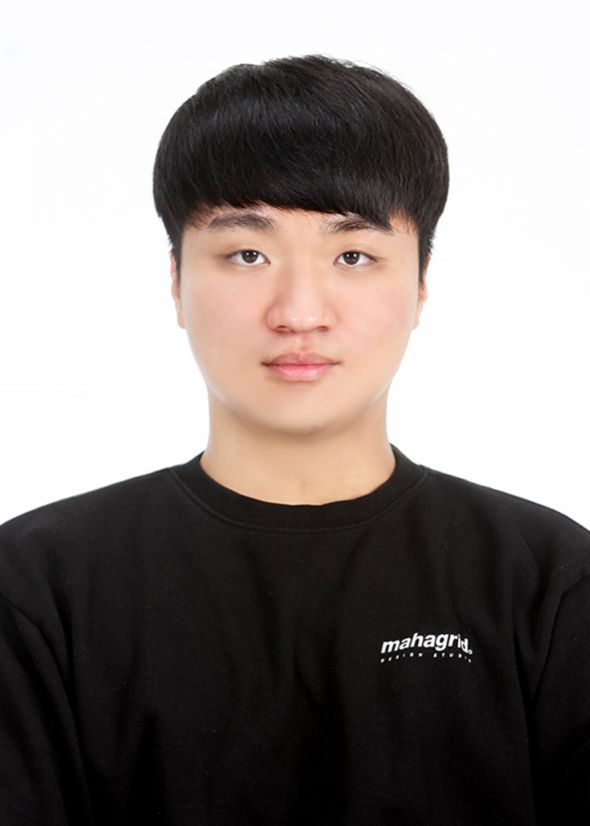
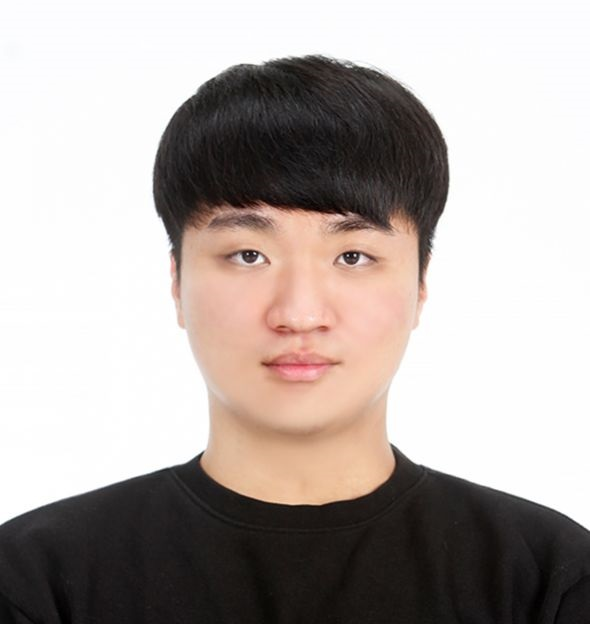
img-list

diff --git a/css/style.css b/css/style.css
@@ -30,7 +30,7 @@
 .my-info>div{width: 50%;}
 .my-info>div>h3{text-transform: uppercase; margin-bottom: 20px; font-size: 25px;}
 .my-info>div>p{margin-bottom: 20px; font-size: 20px;}
-.my-pic{width: 300px;height: 300px; background: url(../img/me.jpg) no-repeat center 20%; border-radius: 50%; background-size: cover; box-shadow: 0 0 10px 5px #a4b8e6;}
+.my-pic{width: 300px;height: 300px; background: url(../img/me.jpg) no-repeat 0 100%; border-radius: 50%; background-size: cover; box-shadow: 0 0 10px 5px #a4b8e6;}
 .skill-img{display: flex;flex-wrap: wrap;}
 .skill-img li{width: 25%; padding:20px 0;}
 .skill-img li img{width: 70%;}
